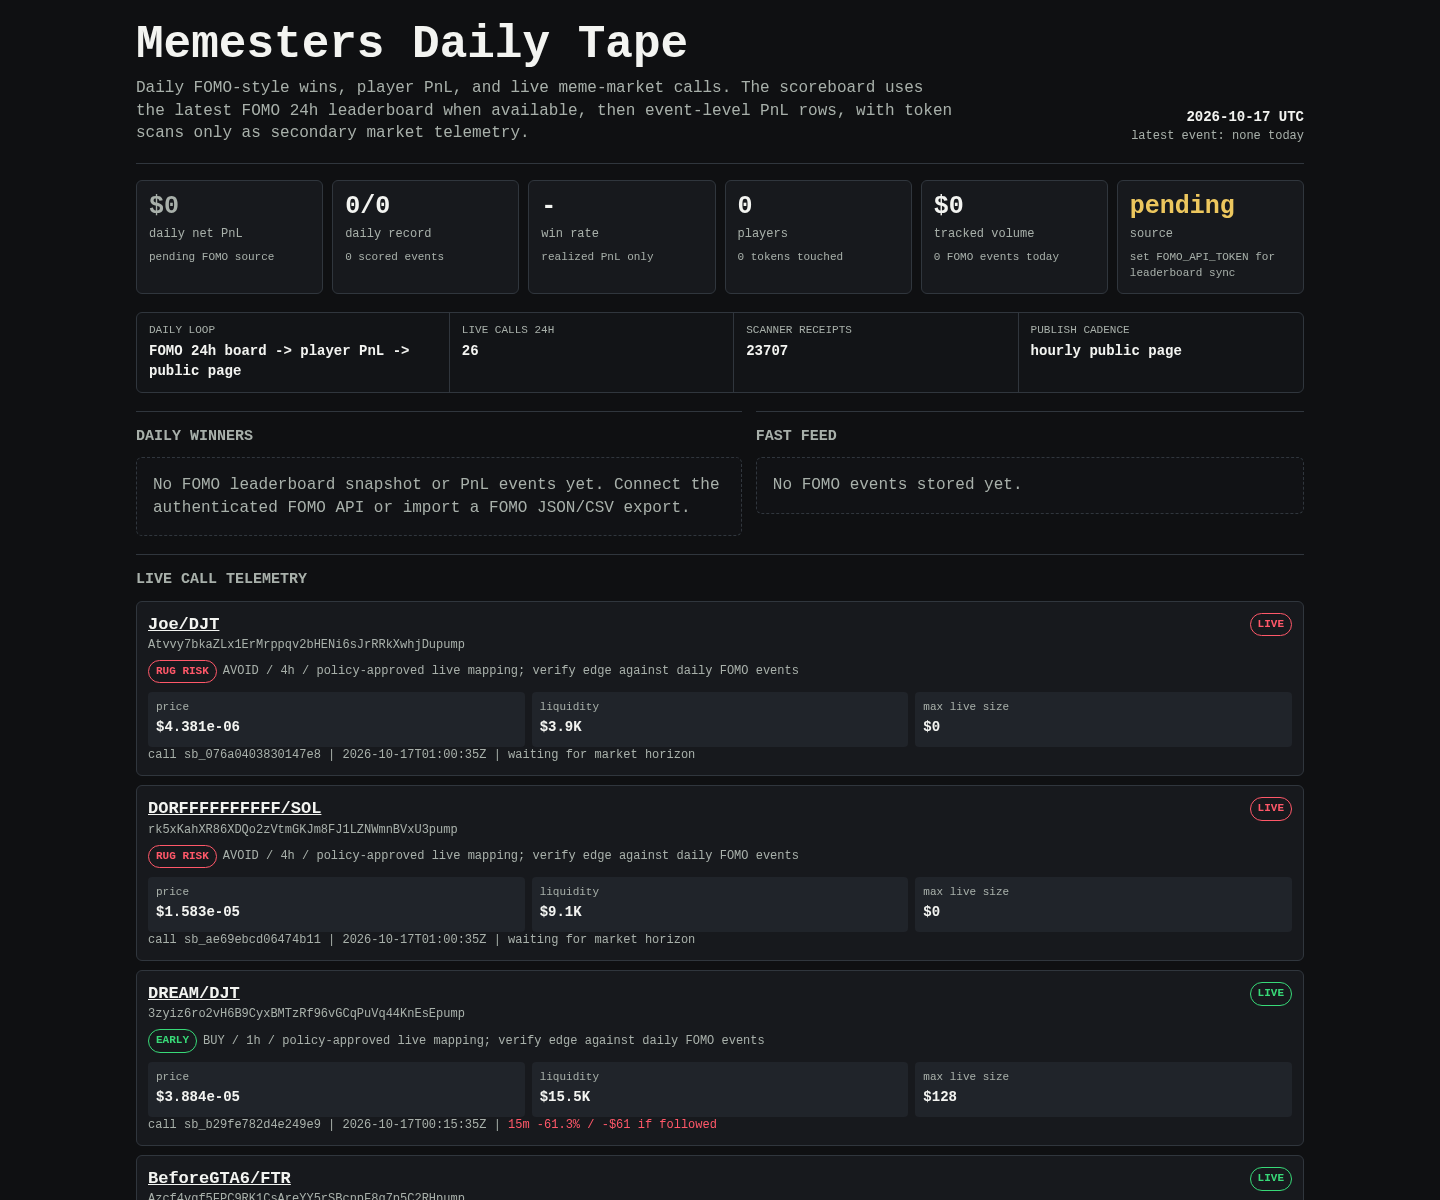
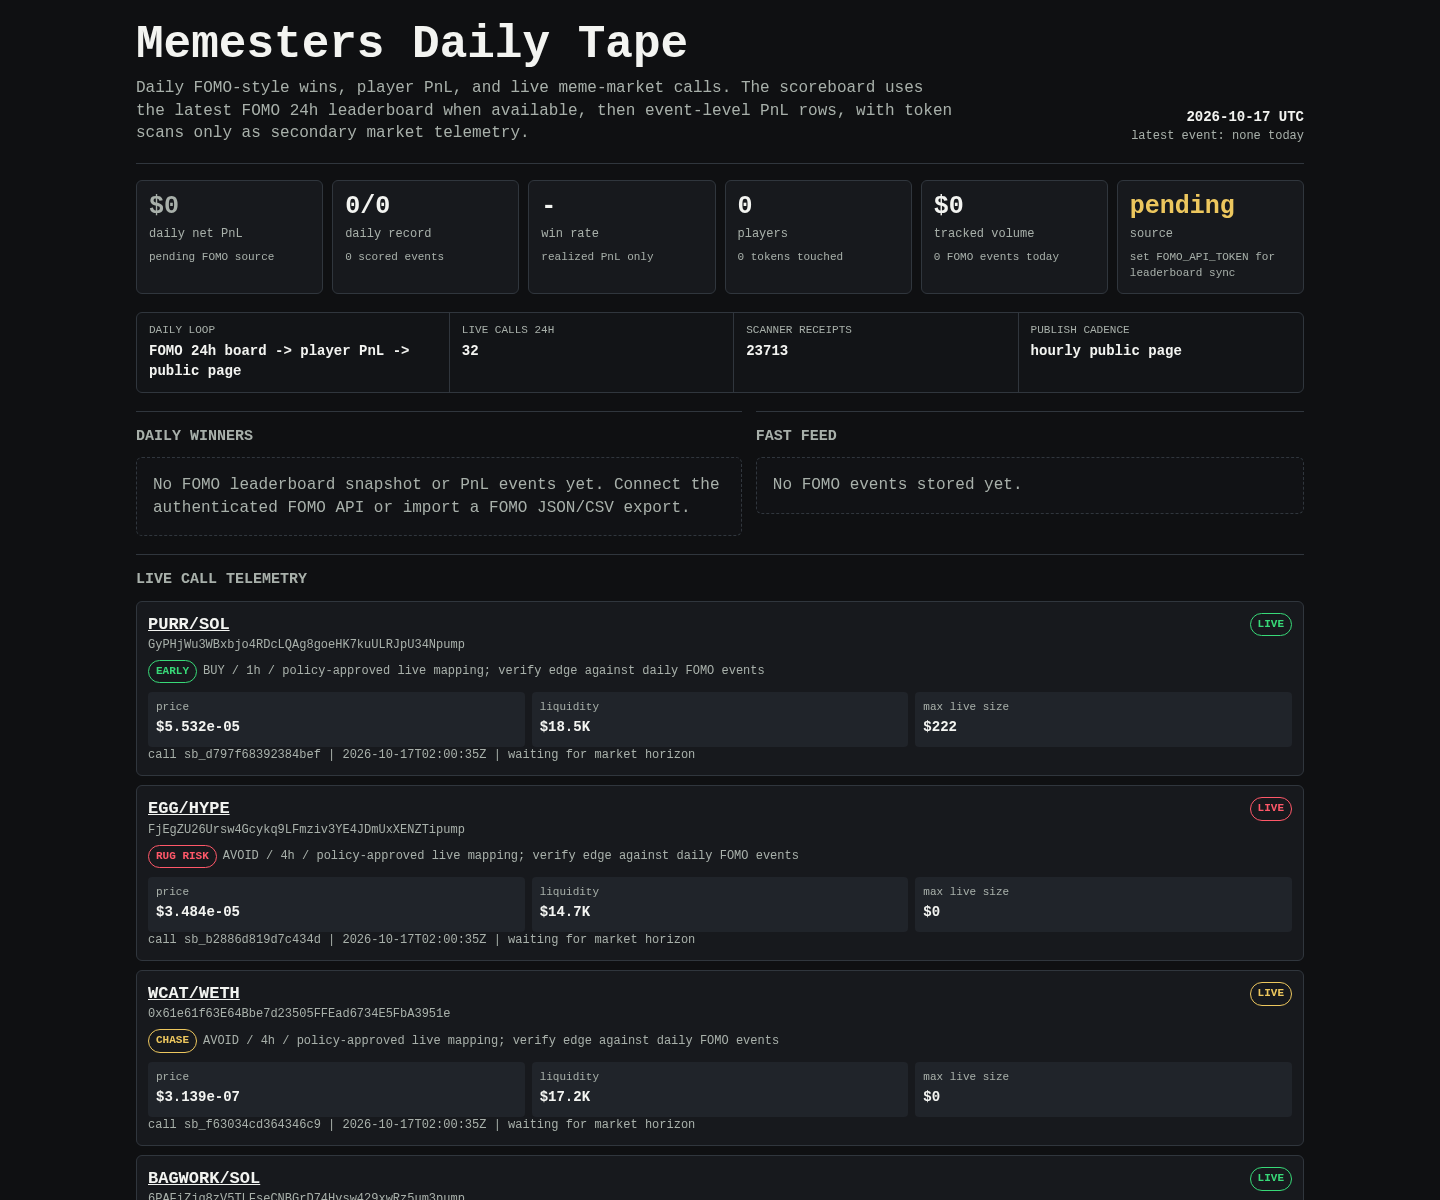
Update Memesters scoreboard

diff --git a/memesters/index.html b/memesters/index.html
@@ -149,8 +149,8 @@
 
     <div class="rail" aria-label="live operating loop">
       <div><span>daily loop</span><b>FOMO 24h board -> player PnL -> public page</b></div>
-      <div><span>live calls 24h</span><b>26</b></div>
-      <div><span>scanner receipts</span><b>23707</b></div>
+      <div><span>live calls 24h</span><b>32</b></div>
+      <div><span>scanner receipts</span><b>23713</b></div>
       <div><span>publish cadence</span><b>hourly public page</b></div>
     </div>
 
@@ -171,6 +171,132 @@
     <article class="receipt">
       <div class="receipt-head">
         <div>
+          <div class="pair"><a href="https://dexscreener.com/solana/8evsdalixbvkptwtcgihld1k1sfvrb6iufp9h3vtmpmj">PURR/SOL</a></div>
+          <div class="addr">GyPHjWu3WBxbjo4RDcLQAg8goeHK7kuULRJpU34Npump</div>
+          <div class="addr policy-line">
+            <span class="badge early">EARLY</span>
+            <span>BUY / 1h / policy-approved live mapping; verify edge against daily FOMO events</span>
+          </div>
+        </div>
+        <span class="badge early">LIVE</span>
+      </div>
+      <div class="receipt-grid">
+        <div class="kv"><span>price</span><b>$5.532e-05</b></div>
+        <div class="kv"><span>liquidity</span><b>$18.5K</b></div>
+        <div class="kv"><span>max live size</span><b>$222</b></div>
+      </div>
+      <div class="outcomes">call sb_d797f68392384bef | 2026-10-17T02:00:35Z | waiting for market horizon</div>
+    </article>
+    
+
+    <article class="receipt">
+      <div class="receipt-head">
+        <div>
+          <div class="pair"><a href="https://dexscreener.com/solana/8c2jqm94ja8zmfwcgwsgfh4cqzevohntqrbvduaykz6p">EGG/HYPE</a></div>
+          <div class="addr">FjEgZU26Ursw4Gcykq9LFmziv3YE4JDmUxXENZTipump</div>
+          <div class="addr policy-line">
+            <span class="badge rug-risk">RUG RISK</span>
+            <span>AVOID / 4h / policy-approved live mapping; verify edge against daily FOMO events</span>
+          </div>
+        </div>
+        <span class="badge rug-risk">LIVE</span>
+      </div>
+      <div class="receipt-grid">
+        <div class="kv"><span>price</span><b>$3.484e-05</b></div>
+        <div class="kv"><span>liquidity</span><b>$14.7K</b></div>
+        <div class="kv"><span>max live size</span><b>$0</b></div>
+      </div>
+      <div class="outcomes">call sb_b2886d819d7c434d | 2026-10-17T02:00:35Z | waiting for market horizon</div>
+    </article>
+    
+
+    <article class="receipt">
+      <div class="receipt-head">
+        <div>
+          <div class="pair"><a href="https://dexscreener.com/robinhood/0x52c7eae6ffccbc92fcaadd4c3fcba48d2c408bb14e72ce1efca75d871264adbd">WCAT/WETH</a></div>
+          <div class="addr">0x61e61f63E64Bbe7d23505FFEad6734E5FbA3951e</div>
+          <div class="addr policy-line">
+            <span class="badge chase">CHASE</span>
+            <span>AVOID / 4h / policy-approved live mapping; verify edge against daily FOMO events</span>
+          </div>
+        </div>
+        <span class="badge chase">LIVE</span>
+      </div>
+      <div class="receipt-grid">
+        <div class="kv"><span>price</span><b>$3.139e-07</b></div>
+        <div class="kv"><span>liquidity</span><b>$17.2K</b></div>
+        <div class="kv"><span>max live size</span><b>$0</b></div>
+      </div>
+      <div class="outcomes">call sb_f63034cd364346c9 | 2026-10-17T02:00:35Z | waiting for market horizon</div>
+    </article>
+    
+
+    <article class="receipt">
+      <div class="receipt-head">
+        <div>
+          <div class="pair"><a href="https://dexscreener.com/solana/57ts8htmzud9qqlzjr2r6qpy8zp4tozzy9zdwbjquzmu">BAGWORK/SOL</a></div>
+          <div class="addr">6PAFiZjq8zV5TLFseCNBGrD74Hvsw429xwRz5um3pump</div>
+          <div class="addr policy-line">
+            <span class="badge early">EARLY</span>
+            <span>BUY / 1h / policy-approved live mapping; verify edge against daily FOMO events</span>
+          </div>
+        </div>
+        <span class="badge early">LIVE</span>
+      </div>
+      <div class="receipt-grid">
+        <div class="kv"><span>price</span><b>$5.064e-05</b></div>
+        <div class="kv"><span>liquidity</span><b>$17.5K</b></div>
+        <div class="kv"><span>max live size</span><b>$25</b></div>
+      </div>
+      <div class="outcomes">call sb_ae5916e6e1604bd4 | 2026-10-17T01:45:35Z | waiting for market horizon</div>
+    </article>
+    
+
+    <article class="receipt">
+      <div class="receipt-head">
+        <div>
+          <div class="pair"><a href="https://dexscreener.com/solana/fsojlhdmlyl3tutpvgb9cpthkqiypxusatsgagiqw6jc">Ananke/CARDS</a></div>
+          <div class="addr">FAnnWwYY2BnHCk2NJMejs7eawBfXb3VhZnD6cGLjpump</div>
+          <div class="addr policy-line">
+            <span class="badge early">EARLY</span>
+            <span>BUY / 1h / policy-approved live mapping; verify edge against daily FOMO events</span>
+          </div>
+        </div>
+        <span class="badge early">LIVE</span>
+      </div>
+      <div class="receipt-grid">
+        <div class="kv"><span>price</span><b>$3.51e-05</b></div>
+        <div class="kv"><span>liquidity</span><b>$14.9K</b></div>
+        <div class="kv"><span>max live size</span><b>$179</b></div>
+      </div>
+      <div class="outcomes">call sb_a5f3d534d7e04784 | 2026-10-17T01:45:34Z | waiting for market horizon</div>
+    </article>
+    
+
+    <article class="receipt">
+      <div class="receipt-head">
+        <div>
+          <div class="pair"><a href="https://dexscreener.com/solana/gwf6wxlm4pmz6gftt9es1ybifks97ttlbk1vufgospty">FDR/SOL</a></div>
+          <div class="addr">A27SALLyyyik4wjaGrzrij77534fxGkE91YPeFp9pump</div>
+          <div class="addr policy-line">
+            <span class="badge chase">CHASE</span>
+            <span>AVOID / 4h / policy-approved live mapping; verify edge against daily FOMO events</span>
+          </div>
+        </div>
+        <span class="badge chase">LIVE</span>
+      </div>
+      <div class="receipt-grid">
+        <div class="kv"><span>price</span><b>$0.000375</b></div>
+        <div class="kv"><span>liquidity</span><b>$51.9K</b></div>
+        <div class="kv"><span>max live size</span><b>$0</b></div>
+      </div>
+      <div class="outcomes">call sb_3d0369e3d7ac4d08 | 2026-10-17T01:15:37Z | <span class="positive">15m -16.2% / +$16 if followed</span></div>
+    </article>
+    
+
+    <article class="receipt">
+      <div class="receipt-head">
+        <div>
           <div class="pair"><a href="https://dexscreener.com/solana/9fodg55yvxtehsvxu3im6rcsydyo4nyzajf2bttauilw">Joe/DJT</a></div>
           <div class="addr">Atvvy7bkaZLx1ErMrppqv2bHENi6sJrRRkXwhjDupump</div>
           <div class="addr policy-line">
@@ -185,7 +311,7 @@
         <div class="kv"><span>liquidity</span><b>$3.9K</b></div>
         <div class="kv"><span>max live size</span><b>$0</b></div>
       </div>
-      <div class="outcomes">call sb_076a0403830147e8 | 2026-10-17T01:00:35Z | waiting for market horizon</div>
+      <div class="outcomes">call sb_076a0403830147e8 | 2026-10-17T01:00:35Z | <span class="positive">15m -18.4% / +$18 if followed</span></div>
     </article>
     
 
@@ -206,7 +332,7 @@
         <div class="kv"><span>liquidity</span><b>$9.1K</b></div>
         <div class="kv"><span>max live size</span><b>$0</b></div>
       </div>
-      <div class="outcomes">call sb_ae69ebcd06474b11 | 2026-10-17T01:00:35Z | waiting for market horizon</div>
+      <div class="outcomes">call sb_ae69ebcd06474b11 | 2026-10-17T01:00:35Z | <span class="positive">15m -59.3% / +$59 if followed</span></div>
     </article>
     
 
@@ -227,7 +353,7 @@
         <div class="kv"><span>liquidity</span><b>$15.5K</b></div>
         <div class="kv"><span>max live size</span><b>$128</b></div>
       </div>
-      <div class="outcomes">call sb_b29fe782d4e249e9 | 2026-10-17T00:15:35Z | <span class="negative">15m -61.3% / -$61 if followed</span></div>
+      <div class="outcomes">call sb_b29fe782d4e249e9 | 2026-10-17T00:15:35Z | <span class="negative">15m -61.3% / -$61 if followed</span> | <span class="negative">1h -82.1% / -$82 if followed</span></div>
     </article>
     
 
@@ -248,133 +374,7 @@
         <div class="kv"><span>liquidity</span><b>$12.0K</b></div>
         <div class="kv"><span>max live size</span><b>$108</b></div>
       </div>
-      <div class="outcomes">call sb_d12f00022206472c | 2026-10-17T00:15:35Z | <span class="negative">15m -49.3% / -$49 if followed</span></div>
-    </article>
-    
-
-    <article class="receipt">
-      <div class="receipt-head">
-        <div>
-          <div class="pair"><a href="https://dexscreener.com/solana/erdsfa4nr5zurucmrd7gjakujuanc7wv43hdvqkguqfj">MARS/SPCX</a></div>
-          <div class="addr">FtHz3vdrcUqfs7YC3oscsPE34Hf2hTGcYqPtEyq2qycy</div>
-          <div class="addr policy-line">
-            <span class="badge early">EARLY</span>
-            <span>BUY / 1h / policy-approved live mapping; verify edge against daily FOMO events</span>
-          </div>
-        </div>
-        <span class="badge early">LIVE</span>
-      </div>
-      <div class="receipt-grid">
-        <div class="kv"><span>price</span><b>$4.117e-05</b></div>
-        <div class="kv"><span>liquidity</span><b>$16.0K</b></div>
-        <div class="kv"><span>max live size</span><b>$27</b></div>
-      </div>
-      <div class="outcomes">call sb_e6f47e886f3b4196 | 2026-10-17T00:15:35Z | <span class="negative">15m -92.8% / -$93 if followed</span></div>
-    </article>
-    
-
-    <article class="receipt">
-      <div class="receipt-head">
-        <div>
-          <div class="pair"><a href="https://dexscreener.com/solana/czfyet7dc8d8y2j2vluhreq2g5197lart7lqdwbaur48">RETAIL/PUMP</a></div>
-          <div class="addr">3JRw4jMwUXjRkiGUoeaB2ZiBzuofqpjuFLmn9A44pump</div>
-          <div class="addr policy-line">
-            <span class="badge rug-risk">RUG RISK</span>
-            <span>AVOID / 4h / policy-approved live mapping; verify edge against daily FOMO events</span>
-          </div>
-        </div>
-        <span class="badge rug-risk">LIVE</span>
-      </div>
-      <div class="receipt-grid">
-        <div class="kv"><span>price</span><b>$8.162e-06</b></div>
-        <div class="kv"><span>liquidity</span><b>$6.3K</b></div>
-        <div class="kv"><span>max live size</span><b>$0</b></div>
-      </div>
-      <div class="outcomes">call sb_224ac27cf29944f6 | 2026-10-17T00:00:36Z | <span class="positive">15m -3.3% / +$3 if followed</span></div>
-    </article>
-    
-
-    <article class="receipt">
-      <div class="receipt-head">
-        <div>
-          <div class="pair"><a href="https://dexscreener.com/solana/32kdpnsnifhmhfy3tpqhklzjyvewhk5b7v4jmpnfjkku">P2L/SOL</a></div>
-          <div class="addr">Bocn19zAwZjXzWwAPXFeznskgkcZHxuG4jTgmzstpump</div>
-          <div class="addr policy-line">
-            <span class="badge chase">CHASE</span>
-            <span>AVOID / 4h / policy-approved live mapping; verify edge against daily FOMO events</span>
-          </div>
-        </div>
-        <span class="badge chase">LIVE</span>
-      </div>
-      <div class="receipt-grid">
-        <div class="kv"><span>price</span><b>$0.0005756</b></div>
-        <div class="kv"><span>liquidity</span><b>$65.5K</b></div>
-        <div class="kv"><span>max live size</span><b>$0</b></div>
-      </div>
-      <div class="outcomes">call sb_62005c5f74bd4fd1 | 2026-10-16T23:45:36Z | <span class="negative">15m +0.1% / -$0 if followed</span> | <span class="negative">1h +118.7% / -$119 if followed</span></div>
-    </article>
-    
-
-    <article class="receipt">
-      <div class="receipt-head">
-        <div>
-          <div class="pair"><a href="https://dexscreener.com/cronos/0xd4148c7c02e44ec2054d697643bf2da81e53c8b3">ULTIA/WCRO</a></div>
-          <div class="addr">0xD80434fE1234Ed9c5dff5fe92BA26fF283ff30f1</div>
-          <div class="addr policy-line">
-            <span class="badge chase">CHASE</span>
-            <span>AVOID / 4h / policy-approved live mapping; verify edge against daily FOMO events</span>
-          </div>
-        </div>
-        <span class="badge chase">LIVE</span>
-      </div>
-      <div class="receipt-grid">
-        <div class="kv"><span>price</span><b>$1.779e-05</b></div>
-        <div class="kv"><span>liquidity</span><b>$13.1K</b></div>
-        <div class="kv"><span>max live size</span><b>$0</b></div>
-      </div>
-      <div class="outcomes">call sb_db2d631f19a84d52 | 2026-10-16T23:30:35Z | <span class="negative">15m +26.9% / -$27 if followed</span> | <span class="negative">1h +36.3% / -$36 if followed</span></div>
-    </article>
-    
-
-    <article class="receipt">
-      <div class="receipt-head">
-        <div>
-          <div class="pair"><a href="https://dexscreener.com/solana/gjrdyzygsghqxzk5utyncy61goed9uovmw6spczv62hq">COMMEOIT/SOL</a></div>
-          <div class="addr">8YuRZEpSFZPuJKUVWVodDwi8uhfMcYDUtt7XaGndpump</div>
-          <div class="addr policy-line">
-            <span class="badge early">EARLY</span>
-            <span>BUY / 1h / policy-approved live mapping; verify edge against daily FOMO events</span>
-          </div>
-        </div>
-        <span class="badge early">LIVE</span>
-      </div>
-      <div class="receipt-grid">
-        <div class="kv"><span>price</span><b>$4.209e-05</b></div>
-        <div class="kv"><span>liquidity</span><b>$15.7K</b></div>
-        <div class="kv"><span>max live size</span><b>$25</b></div>
-      </div>
-      <div class="outcomes">call sb_db29e22b4a254628 | 2026-10-16T23:30:35Z | <span class="negative">15m -93.6% / -$94 if followed</span> | <span class="negative">1h -94.1% / -$94 if followed</span></div>
-    </article>
-    
-
-    <article class="receipt">
-      <div class="receipt-head">
-        <div>
-          <div class="pair"><a href="https://dexscreener.com/solana/7iaekxtpn8zpg4vi6nbpgfusc9rfhtssv8afeufsarb">MOD/SOL</a></div>
-          <div class="addr">EUgnJFo9ki296cqL3f9FDoaeWdz39mF5nmyFjadpump</div>
-          <div class="addr policy-line">
-            <span class="badge rug-risk">RUG RISK</span>
-            <span>AVOID / 4h / policy-approved live mapping; verify edge against daily FOMO events</span>
-          </div>
-        </div>
-        <span class="badge rug-risk">LIVE</span>
-      </div>
-      <div class="receipt-grid">
-        <div class="kv"><span>price</span><b>$2.36e-06</b></div>
-        <div class="kv"><span>liquidity</span><b>$2.4K</b></div>
-        <div class="kv"><span>max live size</span><b>$0</b></div>
-      </div>
-      <div class="outcomes">call sb_60d536e56bf9497b | 2026-10-16T23:15:34Z | <span class="positive">15m -5.0% / +$5 if followed</span> | <span class="positive">1h -5.6% / +$6 if followed</span></div>
+      <div class="outcomes">call sb_d12f00022206472c | 2026-10-17T00:15:35Z | <span class="negative">15m -49.3% / -$49 if followed</span> | <span class="negative">1h -61.6% / -$62 if followed</span></div>
     </article>
     
     </section>
